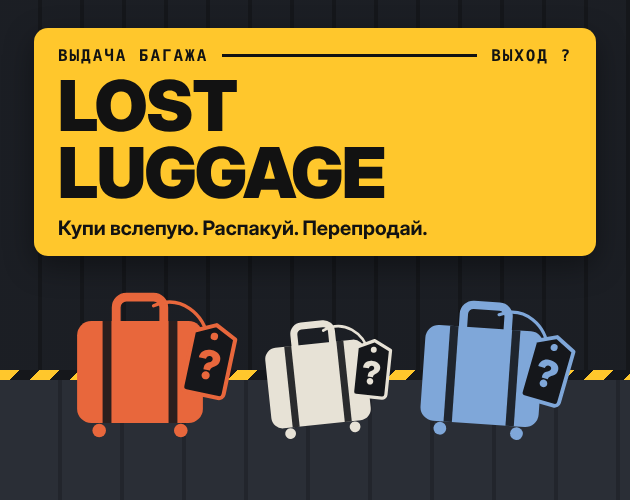
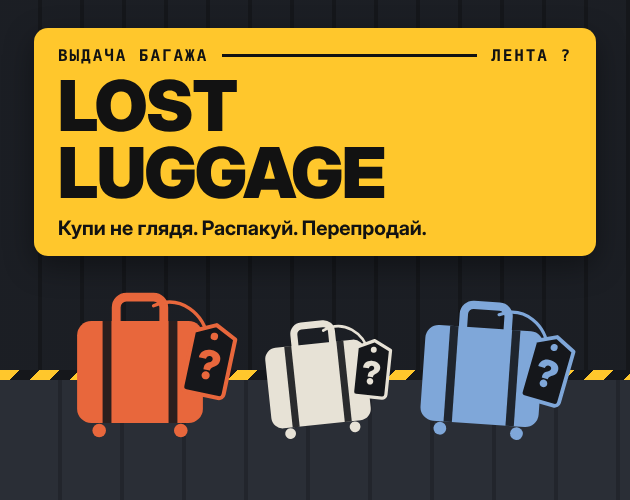
Russian cover: natural wording for the baggage belt and tagline
Claude-Session: https://claude.ai/code/session_01Fq2WtL2avPBayTGqWfRkfW

Changed region(s): [[0.181, 0.42, 0.6937, 0.48], [0.7841, 0.09, 0.8746, 0.12]]

diff --git a/assets_src/cover_ru_title.html b/assets_src/cover_ru_title.html
@@ -67,9 +67,9 @@
   </svg>
   <div style="position:absolute;left:34px;right:34px;top:28px;background:#FFC72C;border-radius:14px;padding:18px 24px 16px;color:#121212;box-shadow:0 10px 30px rgba(0,0,0,.4)">
     <div style="display:flex;align-items:center;gap:14px;font-family:'DejaVu Sans Mono';font-weight:700;font-size:16px;letter-spacing:.12em">
-      <span>ВЫДАЧА БАГАЖА</span><span style="flex:1;height:3px;background:#121212"></span><span>ВЫХОД ?</span>
+      <span>ВЫДАЧА БАГАЖА</span><span style="flex:1;height:3px;background:#121212"></span><span>ЛЕНТА ?</span>
     </div>
     <div style="font-weight:900;font-size:70px;line-height:.95;letter-spacing:-.02em;margin-top:8px">ПОТЕРЯННЫЙ<br>БАГАЖ</div>
-    <div style="font-weight:700;font-size:20px;margin-top:10px">Купи вслепую. Распакуй. Перепродай.</div>
+    <div style="font-weight:700;font-size:20px;margin-top:10px">Купи не глядя. Распакуй. Перепродай.</div>
   </div>
 </div></body></html>

diff --git a/assets_src/cover_ru.html b/assets_src/cover_ru.html
@@ -67,9 +67,9 @@
   </svg>
   <div style="position:absolute;left:34px;right:34px;top:28px;background:#FFC72C;border-radius:14px;padding:18px 24px 16px;color:#121212;box-shadow:0 10px 30px rgba(0,0,0,.4)">
     <div style="display:flex;align-items:center;gap:14px;font-family:'DejaVu Sans Mono';font-weight:700;font-size:16px;letter-spacing:.12em">
-      <span>ВЫДАЧА БАГАЖА</span><span style="flex:1;height:3px;background:#121212"></span><span>ВЫХОД ?</span>
+      <span>ВЫДАЧА БАГАЖА</span><span style="flex:1;height:3px;background:#121212"></span><span>ЛЕНТА ?</span>
     </div>
     <div style="font-weight:900;font-size:70px;line-height:.95;letter-spacing:-.02em;margin-top:8px">LOST<br>LUGGAGE</div>
-    <div style="font-weight:700;font-size:20px;margin-top:10px">Купи вслепую. Распакуй. Перепродай.</div>
+    <div style="font-weight:700;font-size:20px;margin-top:10px">Купи не глядя. Распакуй. Перепродай.</div>
   </div>
 </div></body></html>
